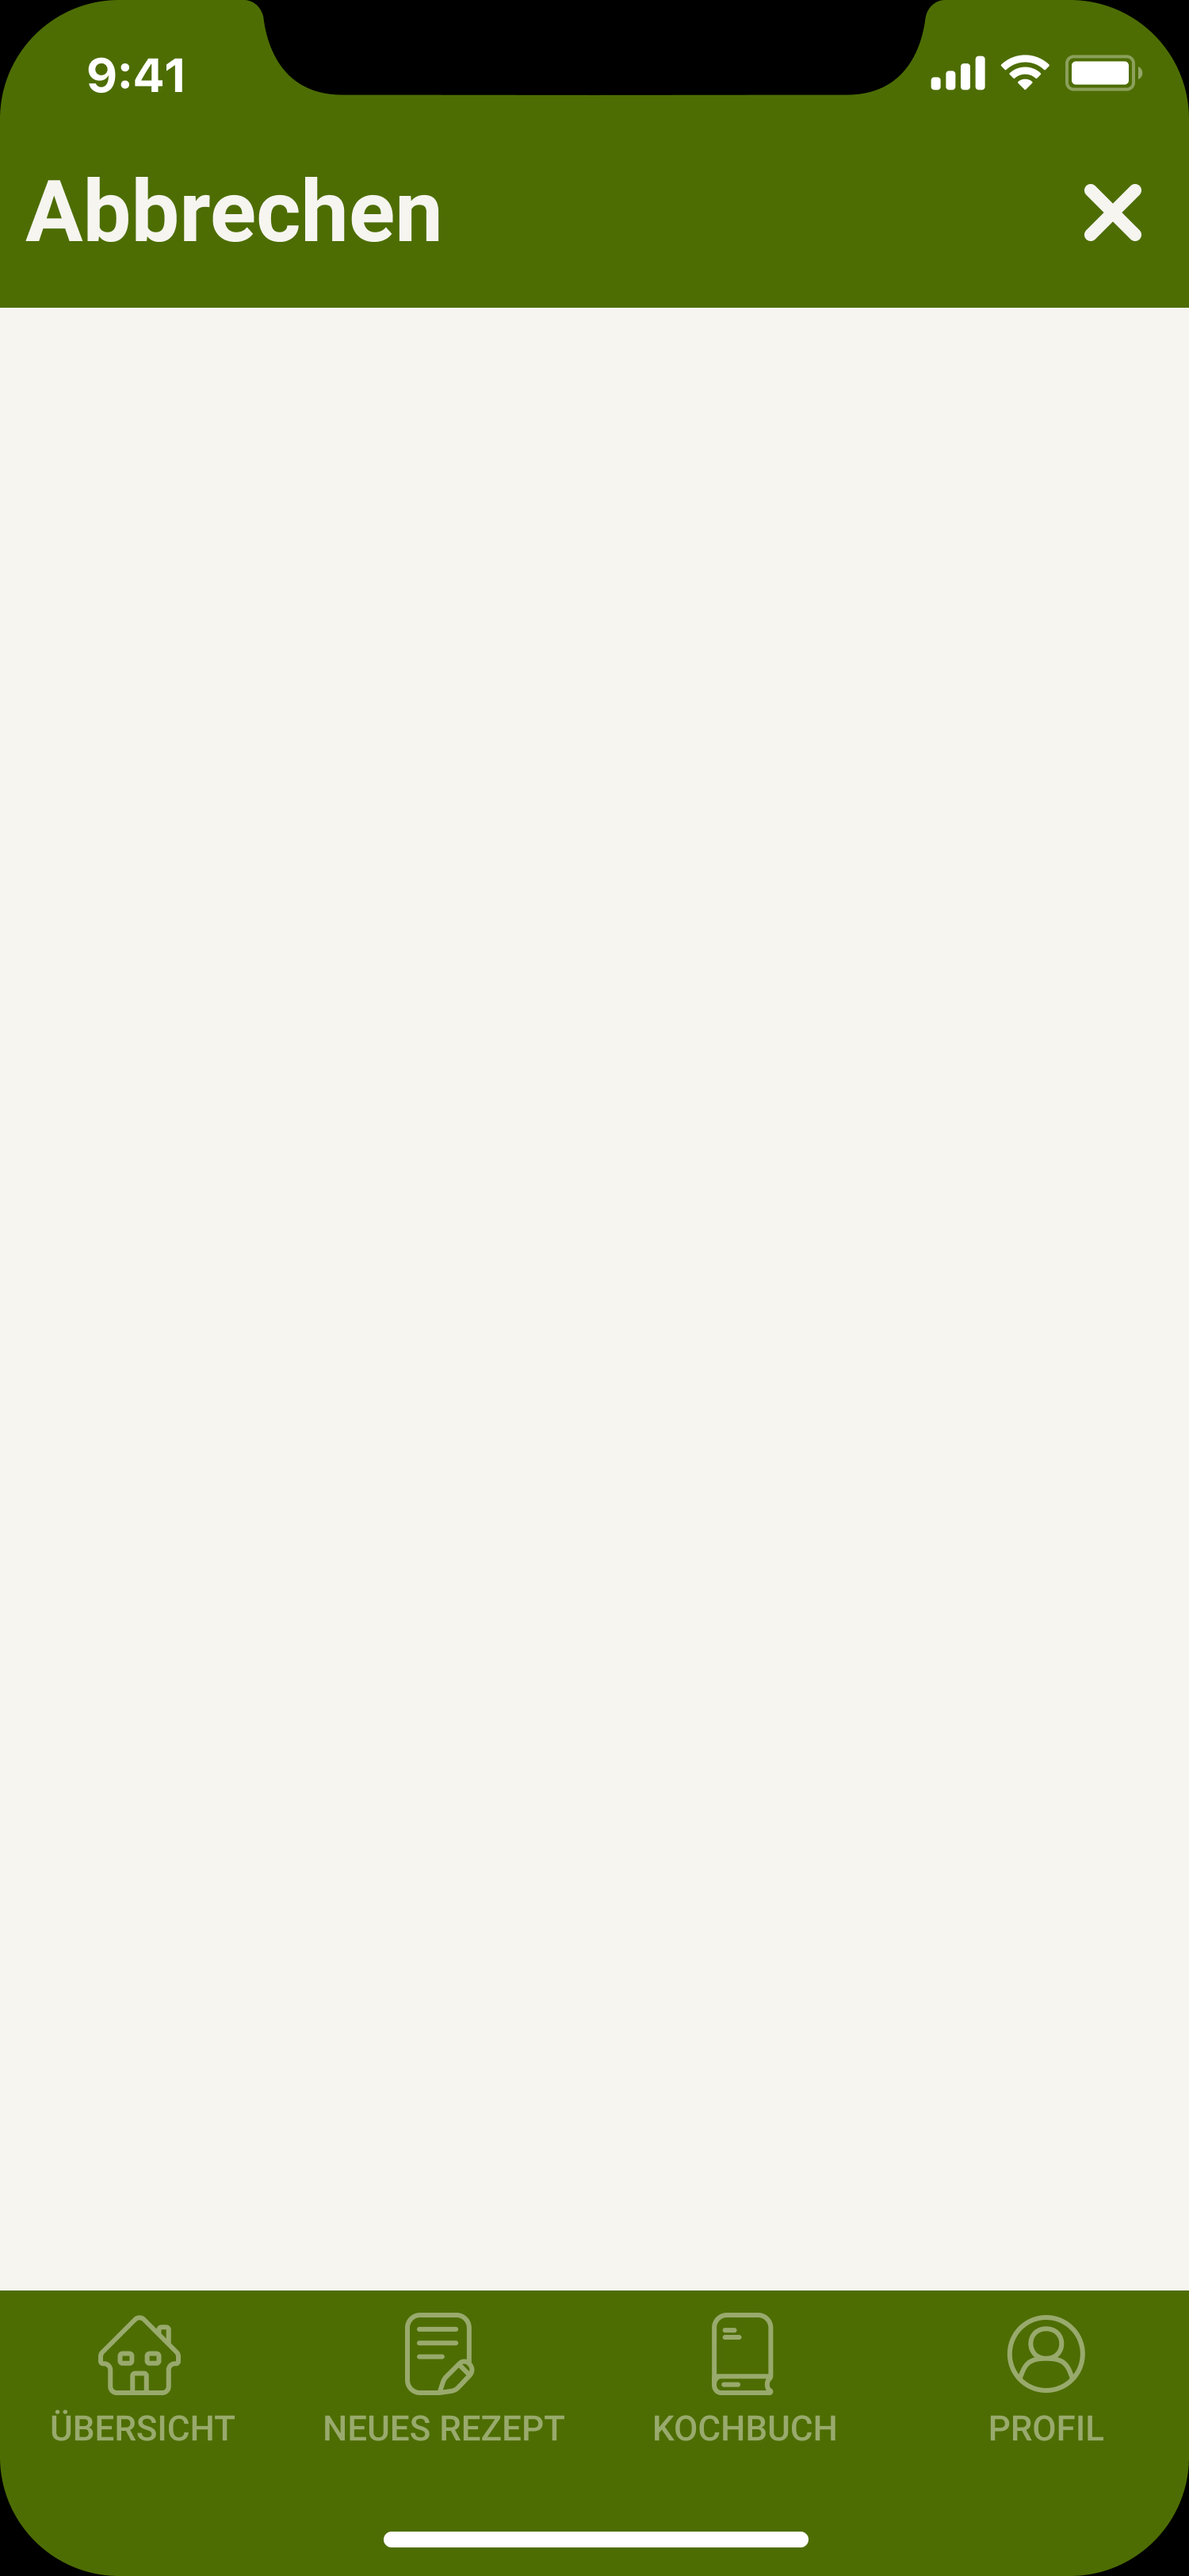
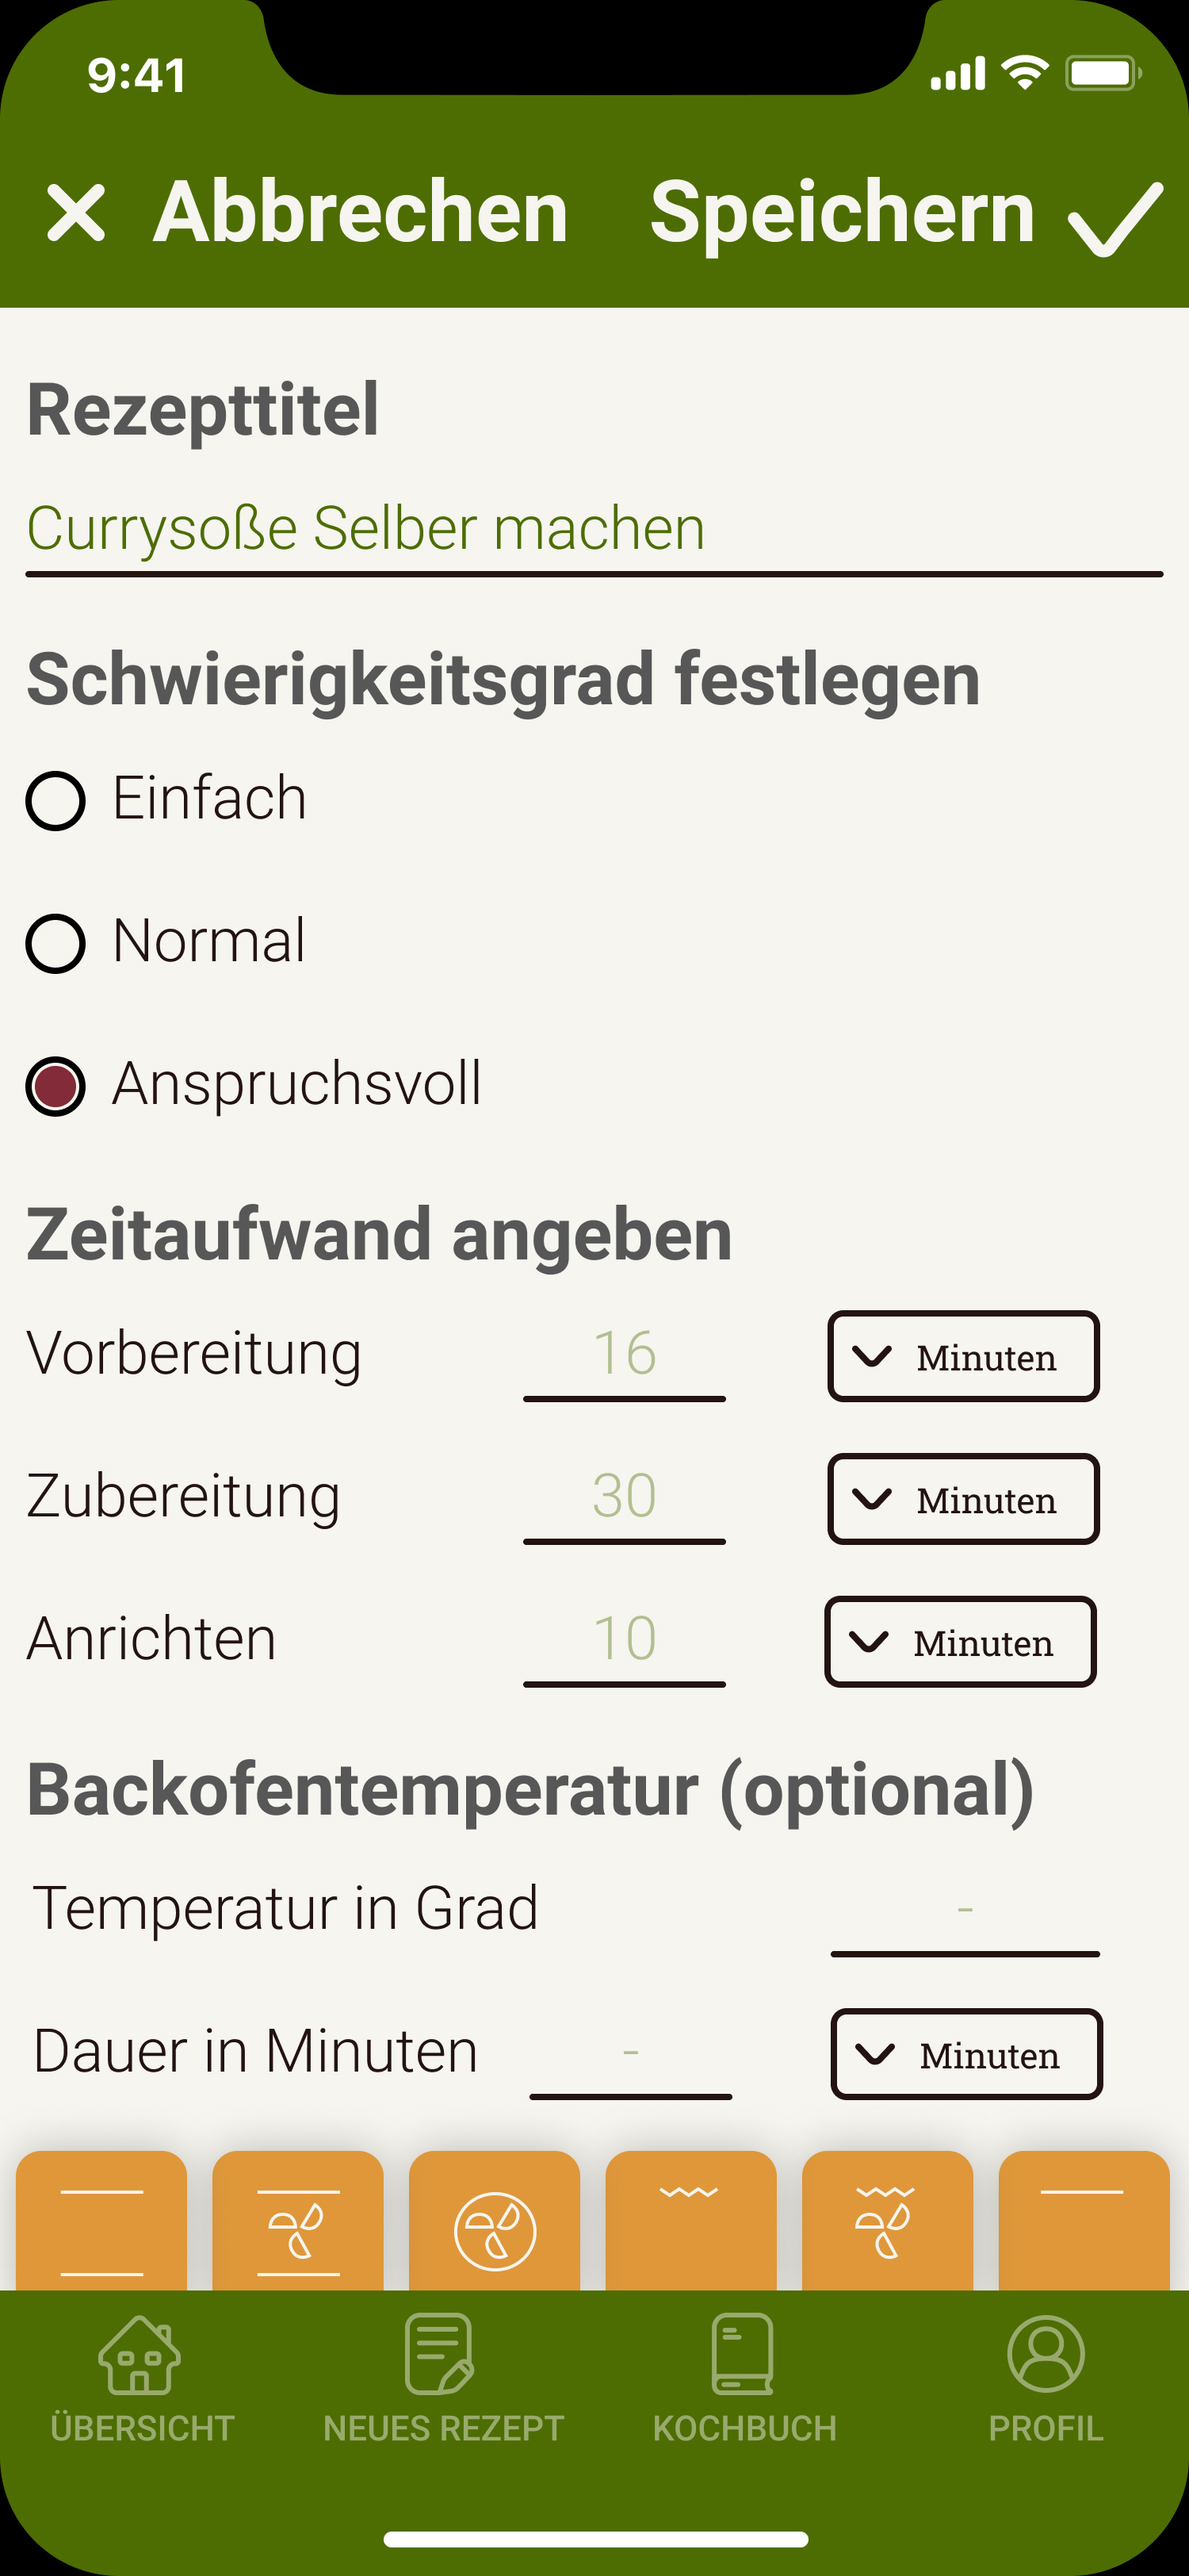
[FEATURE] Add recipe edit screen

diff --git a/Artefakte/Zeiterfassung/Arbeitsmatrix.md b/Artefakte/Zeiterfassung/Arbeitsmatrix.md
@@ -125,8 +125,12 @@
 | 22       | Interface Design                    | MockUps                                           | [TASK]          | Rezeptansicht Mock Up refinement                                 | 06.09.21        | 12.10.21            |                 | 0,50            |
 | 22       | Interface Design                    | MockUps                                           | [FEATURE]       | Rezeptansicht Mock Up finished                                   | 06.09.21        | 12.10.21            |                 | 1,50            |
 | 22       | Interface Design                    | MockUps                                           | [FEATURE]       | Profil ansichten und refinements                                 | 06.09.21        | 12.10.21            |                 | 2,75            |
-|          |                                     |                                                   |                 |                                                                  |                 |                     |                 |                 
-|          | Stunden insgesamt                   | 290                                               | Stunden Seminar | 55                                                               | Stunden Projekt | 235                 |                 |                 |
-|          |                                     |                                                   | Budget:         | 80                                                               | Budget:         | 80                  |                 |                 |
+|          |                                     |                                                   |                 |                                                                  |                 |                     |                 |                 |
+| 22       | Interface Design                    | MockUps                                           | [FEATURE]       | Rezept bearbeiten Screen anfertigen                              | 20.09.21        | 12.10.21            |                 | 1,50            |
+|          |                                     |                                                   |                 |                                                                  |                 |                     |                 |                 |
+|          |                                     |                                                   |                 |                                                                  |                 |                     |                 |                 |
+|          |                                     |                                                   |                 |                                                                  |                 |                     |                 |                 |
+|          | Stunden insgesamt                   | 291,5                                             | Stunden Seminar | 55                                                               | Stunden Projekt | 236,5               |                 |                 |
+|          |                                     |                                                   | Budget:         | 80                                                               | Budget:         | 78,5                |                 |                 |
 |          | Kredits erreicht:                   | 10                                                |                 |                                                                  |                 |                     |                 |                 |
 |          | Kredits erfordert:                  | 15                                                |
